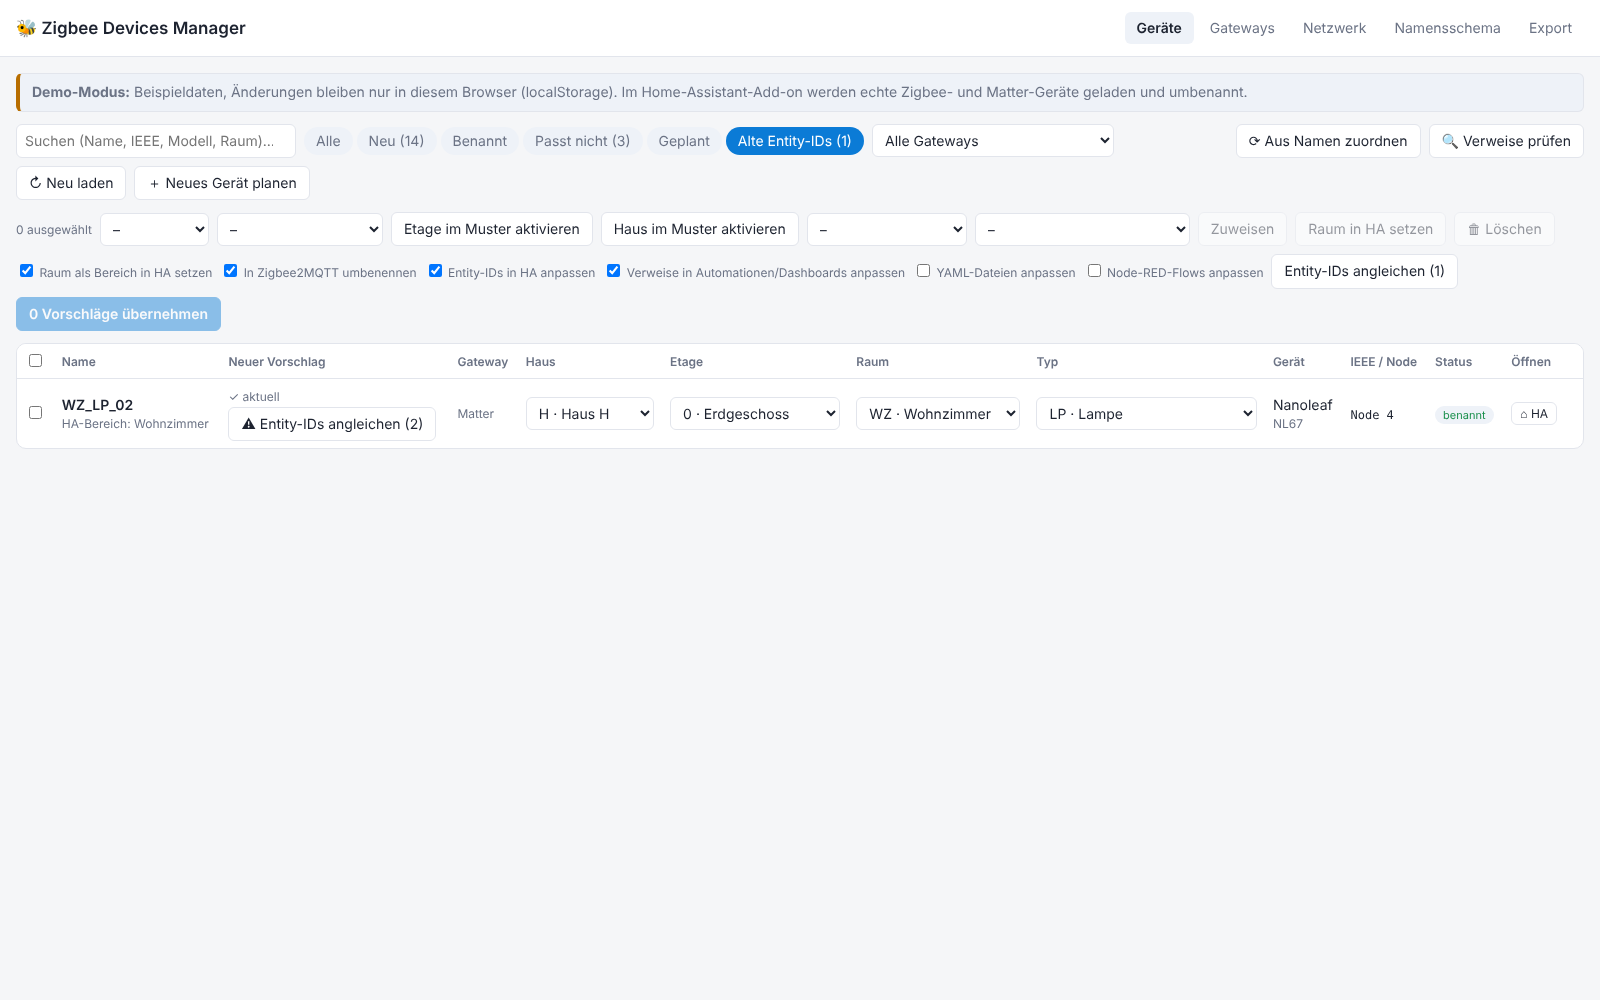
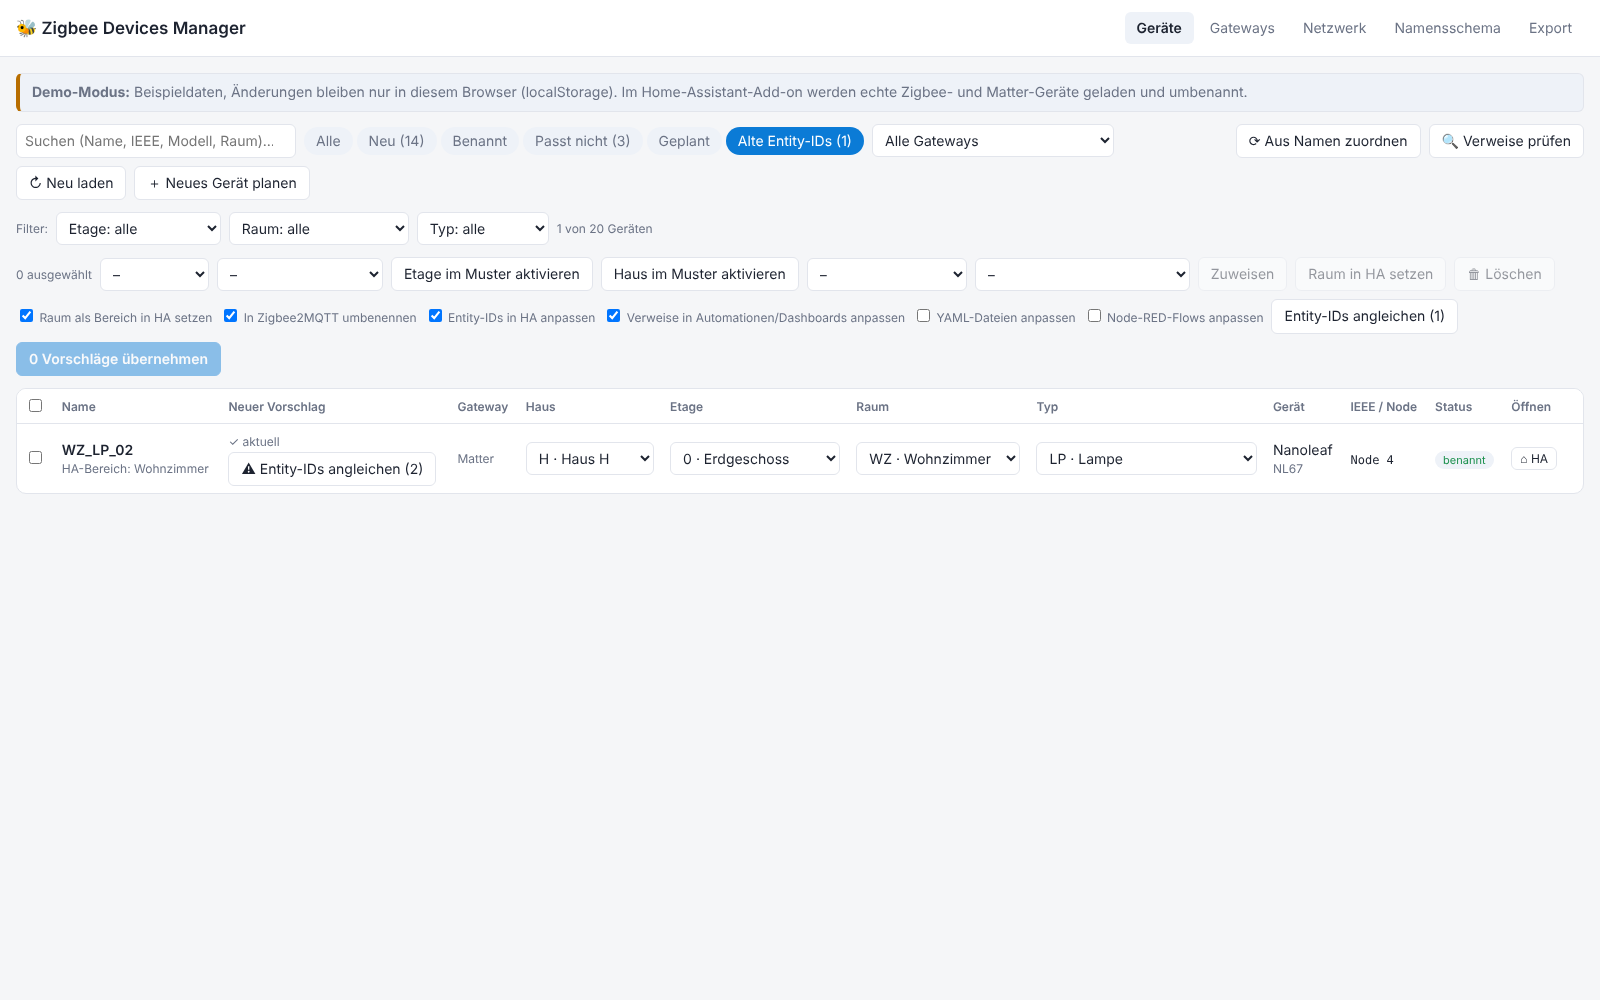
Filter nach Haus, Etage, Raum und Typ in der Geräteliste; Version 0.13.0
Neue Filterleiste über der Liste: je eine Auswahl für Haus (wenn {house} im
Muster steht und es mehrere Häuser gibt), Etage, Raum und Typ – nach dem,
was in der Zeile gewählt bzw. abgeleitet ist. Jede Auswahl zeigt nur Werte,
die bei den übrigen Filtern vorkommen, mit Anzahl, dazu „ohne …“; „✕ Filter
zurücksetzen“ und „n von m Geräten“. Wirkt zusätzlich zu Suche, Chips und
Gateway-Filter.

„Zuweisen“ gilt jetzt wie die übrigen Sammelaktionen nur für sichtbare
ausgewählte Geräte; ausgeblendete Auswahl wird angezeigt.

Claude-Session: https://claude.ai/code/session_01BRmvK2JwGzbRa7vCyPwVU7

diff --git a/zigbee_devices_manager/web/index.html b/zigbee_devices_manager/web/index.html
@@ -20,6 +20,7 @@ main{padding:16px;width:100%}
 input,select,button{font:inherit;color:var(--fg)}
 input,select{background:var(--input);border:1px solid var(--line);border-radius:6px;padding:6px 8px;min-width:0}
 input:focus,select:focus{outline:2px solid var(--accent);outline-offset:-1px}
+select.facet.on{border-color:var(--accent);background:color-mix(in srgb,var(--accent) 10%,var(--input))}
 button.btn{background:var(--card);border:1px solid var(--line);border-radius:6px;padding:6px 12px;cursor:pointer}
 button.btn:hover{border-color:var(--accent)}
 button.primary{background:var(--accent);color:var(--accent-fg);border-color:var(--accent);font-weight:600}
@@ -113,7 +114,7 @@ code{font-family:ui-monospace,Menlo,Consolas,monospace;font-size:12px}
 </main>
 <div class="toast" id="toast"></div>
 
-<script src="zigbee-tree.js?v=0.12.1"></script>
+<script src="zigbee-tree.js?v=0.13.0"></script>
 <script>
 // ---------- Konfiguration / Standarddaten ----------
 const DEMO_FORCED = window.ZDM_DEMO === true;
@@ -399,7 +400,7 @@ const api = {
 };
 
 // ---------- State ----------
-const S = {devices: [], scheme: clone(DEFAULT_SCHEME), meta: {}, planned: [], filter: "all", q: "", sel: new Set(), areas: [], haFloors: [], z2mBases: [], z2mUis: [], bridges: [], gateways: {}, gwFilter: "", permitUntil: {}, permitReal: {}, editing: null, storeLoaded: false, renameZ2m: true, renameEntities: true, setArea: true, updateRefs: true, updateYaml: false, updateNodered: false, deleteForce: true};
+const S = {devices: [], scheme: clone(DEFAULT_SCHEME), meta: {}, planned: [], filter: "all", q: "", sel: new Set(), areas: [], haFloors: [], z2mBases: [], z2mUis: [], bridges: [], gateways: {}, gwFilter: "", facets: {}, permitUntil: {}, permitReal: {}, editing: null, storeLoaded: false, renameZ2m: true, renameEntities: true, setArea: true, updateRefs: true, updateYaml: false, updateNodered: false, deleteForce: true};
 /** Haken beim Umbenennen und Löschen – werden im Store gemerkt. */
 const OPTION_KEYS = ["setArea", "renameZ2m", "renameEntities", "updateRefs", "updateYaml", "updateNodered", "deleteForce"];
 
@@ -486,6 +487,16 @@ const floorOf = d => {
   const room = roomOf(d), area = S.areas.find(a => a.id === (room?.area_id || d.area_id));
   return sc.floors.find(f => area?.floor_id && f.floor_id === area.floor_id) || sc.floors.find(f => f.id === sc.defaultFloor);
 };
+
+/** Filter der Geräteliste nach Haus, Etage, Raum und Typ – so, wie sie in der Zeile gewählt bzw. abgeleitet sind. Wert "-" = ohne. */
+const FACETS = [
+  {key: "house", label: "Haus", none: "ohne Haus", of: d => houseOf(d)?.id, list: () => S.scheme.houses, on: () => useHouse() && S.scheme.houses.length > 1},
+  {key: "floor", label: "Etage", none: "ohne Etage", of: d => floorOf(d)?.id, list: () => S.scheme.floors, on: () => true},
+  {key: "room", label: "Raum", none: "ohne Raum", of: d => roomOf(d)?.id, list: () => S.scheme.rooms, on: () => true},
+  {key: "type", label: "Typ", none: "ohne Typ", of: d => typeOf(d)?.id, list: () => S.scheme.types, on: () => true}
+];
+/** Passt das Gerät zu allen gesetzten Filtern (außer skip – für die Zahlen in dessen Auswahl)? */
+const facetOk = (d, skip) => FACETS.every(f => f.key === skip || !f.on() || !S.facets[f.key] || (f.of(d) || "-") === S.facets[f.key]);
 
 // ---------- Sprung zu Zigbee2MQTT / Home Assistant ----------
 /** Zigbee2MQTT-Instanz (aus bridge/info) eines Gateways: über die Koordinator-IEEE, sonst über den Basis-Topic. */
@@ -651,7 +662,7 @@ function suggestions() {
 // ---------- Geräte-Tab ----------
 function renderDevices() {
   const sug = suggestions(), q = S.q.toLowerCase();
-  let rows = allRows().filter(d => {
+  const baseOk = d => {
     if (S.filter === "new" && !d.is_new) return false;
     if (S.filter === "named" && (d.is_new || d.planned)) return false;
     if (S.filter === "planned" && !d.planned) return false;
@@ -659,7 +670,17 @@ function renderDevices() {
     if (S.filter === "ids" && !staleIds(d).length) return false;
     if (S.gwFilter && d.bridge !== S.gwFilter) return false;
     return !q || [d.name, d.orig_name, addrOf(d), d.model, d.manufacturer, d.area, SOURCE_NAMES[d.source]].join(" ").toLowerCase().includes(q);
-  });
+  };
+  const base = allRows().filter(baseOk), rows = base.filter(d => facetOk(d));
+  // Auswahl je Filter: nur Einträge, die bei den übrigen Filtern vorkommen, mit Anzahl
+  const facetSel = f => {
+    const n = new Map(), cur = S.facets[f.key] || "";
+    for (const d of base) if (facetOk(d, f.key)) { const v = f.of(d) || "-"; n.set(v, (n.get(v) || 0) + 1); }
+    return `<select class="facet${cur ? " on" : ""}" data-k="${f.key}" title="Nur Geräte mit diesem Wert zeigen (${f.label})"><option value="">${f.label}: alle</option>`
+      + f.list().filter(x => n.has(x.id) || cur === x.id).map(x => `<option value="${x.id}"${cur === x.id ? " selected" : ""}>${esc(x.abbr)} · ${esc(x.name)} (${n.get(x.id) || 0})</option>`).join("")
+      + (n.has("-") || cur === "-" ? `<option value="-"${cur === "-" ? " selected" : ""}>${f.none} (${n.get("-") || 0})</option>` : "") + `</select>`;
+  };
+  const facetOn = FACETS.some(f => f.on() && S.facets[f.key]), hiddenSel = [...S.sel].filter(id => !rows.some(d => d.id === id)).length;
   const roomOpts = sel => `<option value="">–</option>` + S.scheme.rooms.map(r => `<option value="${r.id}"${r.id === sel ? " selected" : ""}>${esc(r.abbr)} · ${esc(r.name)}</option>`).join("");
   const houseOpts = sel => `<option value="">–</option>` + S.scheme.houses.map(h => `<option value="${h.id}"${h.id === sel ? " selected" : ""}>${esc(h.abbr)} · ${esc(h.name)}</option>`).join("");
   const floorOpts = sel => `<option value="">–</option>` + S.scheme.floors.map(f => `<option value="${f.id}"${f.id === sel ? " selected" : ""}>${esc(f.abbr)} · ${esc(f.name)}</option>`).join("");
@@ -683,7 +704,13 @@ function renderDevices() {
       <button class="btn" id="addPlanned">＋ Neues Gerät planen</button>
     </div>
     <div class="bar">
-      <span class="sub">${S.sel.size} ausgewählt</span>
+      <span class="sub">Filter:</span>
+      ${FACETS.filter(f => f.on()).map(facetSel).join("")}
+      ${facetOn ? `<button class="btn" id="facetReset" title="Alle Filter für Haus, Etage, Raum und Typ zurücksetzen">✕ Filter zurücksetzen</button>` : ""}
+      <span class="sub">${rows.length} von ${allRows().length} Geräten</span>
+    </div>
+    <div class="bar">
+      <span class="sub">${S.sel.size} ausgewählt${hiddenSel ? ` (${hiddenSel} ausgeblendet – zählen nicht mit)` : ""}</span>
       <select id="bHouse" title="Haus">${houseOpts("")}</select>
       <select id="bFloor" title="Etage">${floorOpts("")}</select>${useFloor() ? "" : `<button class="btn" id="floorOn" title="Im Namensschema steht {floor} noch nicht. Klick fügt es vorne an das Muster an.">Etage im Muster aktivieren</button>`}${useHouse() ? "" : `<button class="btn" id="houseOn" title="Im Namensschema steht {house} noch nicht. Klick fügt es vorne an das Muster an.">Haus im Muster aktivieren</button>`}
       <select id="bRoom">${roomOpts("")}</select>
@@ -731,6 +758,8 @@ function renderDevices() {
   $("#q", root).oninput = e => { S.q = e.target.value; const p = e.target.selectionStart; renderDevices(); const i = $("#q"); i.focus(); i.setSelectionRange(p, p); };
   root.querySelectorAll("[data-f]").forEach(b => b.onclick = () => { S.filter = b.dataset.f; renderDevices(); });
   $("#gwf", root) && ($("#gwf", root).onchange = e => { S.gwFilter = e.target.value; renderDevices(); });
+  root.querySelectorAll("select.facet").forEach(x => x.onchange = () => { S.facets[x.dataset.k] = x.value; renderDevices(); });
+  $("#facetReset", root) && ($("#facetReset", root).onclick = () => { S.facets = {}; renderDevices(); });
   $("#floorOn", root) && ($("#floorOn", root).onclick = () => { S.scheme.pattern = "{floor}-" + S.scheme.pattern; S.scheme.case = "keep"; persist(); toast("Muster: " + S.scheme.pattern); renderDevices(); });
   $("#houseOn", root) && ($("#houseOn", root).onclick = () => { S.scheme.pattern = "{house}-" + S.scheme.pattern; S.scheme.case = "keep"; persist(); toast("Muster: " + S.scheme.pattern); renderDevices(); });
   $("#rArea", root).onchange = e => { S.setArea = e.target.checked; persist(); };
@@ -755,7 +784,7 @@ function renderDevices() {
   $("#bDel", root).onclick = () => deleteDevices(rows.filter(d => S.sel.has(d.id)));
   $("#bAssign", root).onclick = () => {
     const room = $("#bRoom", root).value, type = $("#bType", root).value, house = $("#bHouse", root)?.value, floor = $("#bFloor", root)?.value;
-    S.sel.forEach(id => { S.meta[id] = {...S.meta[id], ...(room && {room}), ...(type && {type}), ...(house && {house}), ...(floor && {floor})}; });
+    rows.filter(d => S.sel.has(d.id)).forEach(({id}) => { S.meta[id] = {...S.meta[id], ...(room && {room}), ...(type && {type}), ...(house && {house}), ...(floor && {floor})}; });
     persist(); renderDevices();
   };
   $("#fixAll", root) && ($("#fixAll", root).onclick = () => fixEntityIds(staleRows));

diff --git a/demo/zigbee-devices-manager-demo.html b/demo/zigbee-devices-manager-demo.html
@@ -20,6 +20,7 @@ main{padding:16px;width:100%}
 input,select,button{font:inherit;color:var(--fg)}
 input,select{background:var(--input);border:1px solid var(--line);border-radius:6px;padding:6px 8px;min-width:0}
 input:focus,select:focus{outline:2px solid var(--accent);outline-offset:-1px}
+select.facet.on{border-color:var(--accent);background:color-mix(in srgb,var(--accent) 10%,var(--input))}
 button.btn{background:var(--card);border:1px solid var(--line);border-radius:6px;padding:6px 12px;cursor:pointer}
 button.btn:hover{border-color:var(--accent)}
 button.primary{background:var(--accent);color:var(--accent-fg);border-color:var(--accent);font-weight:600}
@@ -625,7 +626,7 @@ const api = {
 };
 
 // ---------- State ----------
-const S = {devices: [], scheme: clone(DEFAULT_SCHEME), meta: {}, planned: [], filter: "all", q: "", sel: new Set(), areas: [], haFloors: [], z2mBases: [], z2mUis: [], bridges: [], gateways: {}, gwFilter: "", permitUntil: {}, permitReal: {}, editing: null, storeLoaded: false, renameZ2m: true, renameEntities: true, setArea: true, updateRefs: true, updateYaml: false, updateNodered: false, deleteForce: true};
+const S = {devices: [], scheme: clone(DEFAULT_SCHEME), meta: {}, planned: [], filter: "all", q: "", sel: new Set(), areas: [], haFloors: [], z2mBases: [], z2mUis: [], bridges: [], gateways: {}, gwFilter: "", facets: {}, permitUntil: {}, permitReal: {}, editing: null, storeLoaded: false, renameZ2m: true, renameEntities: true, setArea: true, updateRefs: true, updateYaml: false, updateNodered: false, deleteForce: true};
 /** Haken beim Umbenennen und Löschen – werden im Store gemerkt. */
 const OPTION_KEYS = ["setArea", "renameZ2m", "renameEntities", "updateRefs", "updateYaml", "updateNodered", "deleteForce"];
 
@@ -712,6 +713,16 @@ const floorOf = d => {
   const room = roomOf(d), area = S.areas.find(a => a.id === (room?.area_id || d.area_id));
   return sc.floors.find(f => area?.floor_id && f.floor_id === area.floor_id) || sc.floors.find(f => f.id === sc.defaultFloor);
 };
+
+/** Filter der Geräteliste nach Haus, Etage, Raum und Typ – so, wie sie in der Zeile gewählt bzw. abgeleitet sind. Wert "-" = ohne. */
+const FACETS = [
+  {key: "house", label: "Haus", none: "ohne Haus", of: d => houseOf(d)?.id, list: () => S.scheme.houses, on: () => useHouse() && S.scheme.houses.length > 1},
+  {key: "floor", label: "Etage", none: "ohne Etage", of: d => floorOf(d)?.id, list: () => S.scheme.floors, on: () => true},
+  {key: "room", label: "Raum", none: "ohne Raum", of: d => roomOf(d)?.id, list: () => S.scheme.rooms, on: () => true},
+  {key: "type", label: "Typ", none: "ohne Typ", of: d => typeOf(d)?.id, list: () => S.scheme.types, on: () => true}
+];
+/** Passt das Gerät zu allen gesetzten Filtern (außer skip – für die Zahlen in dessen Auswahl)? */
+const facetOk = (d, skip) => FACETS.every(f => f.key === skip || !f.on() || !S.facets[f.key] || (f.of(d) || "-") === S.facets[f.key]);
 
 // ---------- Sprung zu Zigbee2MQTT / Home Assistant ----------
 /** Zigbee2MQTT-Instanz (aus bridge/info) eines Gateways: über die Koordinator-IEEE, sonst über den Basis-Topic. */
@@ -877,7 +888,7 @@ function suggestions() {
 // ---------- Geräte-Tab ----------
 function renderDevices() {
   const sug = suggestions(), q = S.q.toLowerCase();
-  let rows = allRows().filter(d => {
+  const baseOk = d => {
     if (S.filter === "new" && !d.is_new) return false;
     if (S.filter === "named" && (d.is_new || d.planned)) return false;
     if (S.filter === "planned" && !d.planned) return false;
@@ -885,7 +896,17 @@ function renderDevices() {
     if (S.filter === "ids" && !staleIds(d).length) return false;
     if (S.gwFilter && d.bridge !== S.gwFilter) return false;
     return !q || [d.name, d.orig_name, addrOf(d), d.model, d.manufacturer, d.area, SOURCE_NAMES[d.source]].join(" ").toLowerCase().includes(q);
-  });
+  };
+  const base = allRows().filter(baseOk), rows = base.filter(d => facetOk(d));
+  // Auswahl je Filter: nur Einträge, die bei den übrigen Filtern vorkommen, mit Anzahl
+  const facetSel = f => {
+    const n = new Map(), cur = S.facets[f.key] || "";
+    for (const d of base) if (facetOk(d, f.key)) { const v = f.of(d) || "-"; n.set(v, (n.get(v) || 0) + 1); }
+    return `<select class="facet${cur ? " on" : ""}" data-k="${f.key}" title="Nur Geräte mit diesem Wert zeigen (${f.label})"><option value="">${f.label}: alle</option>`
+      + f.list().filter(x => n.has(x.id) || cur === x.id).map(x => `<option value="${x.id}"${cur === x.id ? " selected" : ""}>${esc(x.abbr)} · ${esc(x.name)} (${n.get(x.id) || 0})</option>`).join("")
+      + (n.has("-") || cur === "-" ? `<option value="-"${cur === "-" ? " selected" : ""}>${f.none} (${n.get("-") || 0})</option>` : "") + `</select>`;
+  };
+  const facetOn = FACETS.some(f => f.on() && S.facets[f.key]), hiddenSel = [...S.sel].filter(id => !rows.some(d => d.id === id)).length;
   const roomOpts = sel => `<option value="">–</option>` + S.scheme.rooms.map(r => `<option value="${r.id}"${r.id === sel ? " selected" : ""}>${esc(r.abbr)} · ${esc(r.name)}</option>`).join("");
   const houseOpts = sel => `<option value="">–</option>` + S.scheme.houses.map(h => `<option value="${h.id}"${h.id === sel ? " selected" : ""}>${esc(h.abbr)} · ${esc(h.name)}</option>`).join("");
   const floorOpts = sel => `<option value="">–</option>` + S.scheme.floors.map(f => `<option value="${f.id}"${f.id === sel ? " selected" : ""}>${esc(f.abbr)} · ${esc(f.name)}</option>`).join("");
@@ -909,7 +930,13 @@ function renderDevices() {
       <button class="btn" id="addPlanned">＋ Neues Gerät planen</button>
     </div>
     <div class="bar">
-      <span class="sub">${S.sel.size} ausgewählt</span>
+      <span class="sub">Filter:</span>
+      ${FACETS.filter(f => f.on()).map(facetSel).join("")}
+      ${facetOn ? `<button class="btn" id="facetReset" title="Alle Filter für Haus, Etage, Raum und Typ zurücksetzen">✕ Filter zurücksetzen</button>` : ""}
+      <span class="sub">${rows.length} von ${allRows().length} Geräten</span>
+    </div>
+    <div class="bar">
+      <span class="sub">${S.sel.size} ausgewählt${hiddenSel ? ` (${hiddenSel} ausgeblendet – zählen nicht mit)` : ""}</span>
       <select id="bHouse" title="Haus">${houseOpts("")}</select>
       <select id="bFloor" title="Etage">${floorOpts("")}</select>${useFloor() ? "" : `<button class="btn" id="floorOn" title="Im Namensschema steht {floor} noch nicht. Klick fügt es vorne an das Muster an.">Etage im Muster aktivieren</button>`}${useHouse() ? "" : `<button class="btn" id="houseOn" title="Im Namensschema steht {house} noch nicht. Klick fügt es vorne an das Muster an.">Haus im Muster aktivieren</button>`}
       <select id="bRoom">${roomOpts("")}</select>
@@ -957,6 +984,8 @@ function renderDevices() {
   $("#q", root).oninput = e => { S.q = e.target.value; const p = e.target.selectionStart; renderDevices(); const i = $("#q"); i.focus(); i.setSelectionRange(p, p); };
   root.querySelectorAll("[data-f]").forEach(b => b.onclick = () => { S.filter = b.dataset.f; renderDevices(); });
   $("#gwf", root) && ($("#gwf", root).onchange = e => { S.gwFilter = e.target.value; renderDevices(); });
+  root.querySelectorAll("select.facet").forEach(x => x.onchange = () => { S.facets[x.dataset.k] = x.value; renderDevices(); });
+  $("#facetReset", root) && ($("#facetReset", root).onclick = () => { S.facets = {}; renderDevices(); });
   $("#floorOn", root) && ($("#floorOn", root).onclick = () => { S.scheme.pattern = "{floor}-" + S.scheme.pattern; S.scheme.case = "keep"; persist(); toast("Muster: " + S.scheme.pattern); renderDevices(); });
   $("#houseOn", root) && ($("#houseOn", root).onclick = () => { S.scheme.pattern = "{house}-" + S.scheme.pattern; S.scheme.case = "keep"; persist(); toast("Muster: " + S.scheme.pattern); renderDevices(); });
   $("#rArea", root).onchange = e => { S.setArea = e.target.checked; persist(); };
@@ -981,7 +1010,7 @@ function renderDevices() {
   $("#bDel", root).onclick = () => deleteDevices(rows.filter(d => S.sel.has(d.id)));
   $("#bAssign", root).onclick = () => {
     const room = $("#bRoom", root).value, type = $("#bType", root).value, house = $("#bHouse", root)?.value, floor = $("#bFloor", root)?.value;
-    S.sel.forEach(id => { S.meta[id] = {...S.meta[id], ...(room && {room}), ...(type && {type}), ...(house && {house}), ...(floor && {floor})}; });
+    rows.filter(d => S.sel.has(d.id)).forEach(({id}) => { S.meta[id] = {...S.meta[id], ...(room && {room}), ...(type && {type}), ...(house && {house}), ...(floor && {floor})}; });
     persist(); renderDevices();
   };
   $("#fixAll", root) && ($("#fixAll", root).onclick = () => fixEntityIds(staleRows));

diff --git a/zigbee_devices_manager/CHANGELOG.md b/zigbee_devices_manager/CHANGELOG.md
@@ -1,9 +1,11 @@
 # Änderungen
 
-## 0.12.1
+## 0.13.0
 
 *25.10.2026*
 
+- **Filter nach Haus, Etage, Raum und Typ:** Über der Geräteliste stehen jetzt Auswahlfelder, mit denen sich die Liste zusätzlich zu Suche, „Neu/Benannt/…“ und Gateway eingrenzen lässt – z. B. nur Spots (Typ LSP) im Wohnzimmer der 2. Etage. Jede Auswahl zeigt nur, was bei den übrigen Filtern vorkommt, mit Anzahl; „ohne Raum“/„ohne Typ“ findet Geräte, denen noch etwas fehlt. „✕ Filter zurücksetzen“ hebt alles auf, daneben steht „n von m Geräten“.
+- „Zuweisen“, „Vorschläge übernehmen“, „Entity-IDs angleichen“, „Raum in HA setzen“ und „Löschen“ wirken nur auf sichtbare Geräte. Ausgewählte, die ein Filter gerade ausblendet, werden angezeigt („… ausgeblendet – zählen nicht mit“).
 - **Korrektur „Entity-IDs angleichen“:** Hatte Zigbee2MQTT beim Umbenennen nur einen Teil der Entity-IDs mitgenommen (meist die abgeschalteten wie `linkquality`, `update_state`, `update_available`), schlug die Vorschau doppelte oder abgeschnittene IDs vor – z. B. `sensor.h1_wzfl_tas02_wz_tas02_linkquality` statt `sensor.h1_wzfl_tas02_linkquality` und `binary_sensor.h1_wzfl_tas02` statt `…_update_available`. Jetzt liest das Add-on die Endung einer Zigbee2MQTT-Entität aus deren eindeutiger Kennung ab, nimmt als alten Namen nur den gemeinsamen Anfang der *noch alten* IDs und verwirft Vermutungen, die bloß der Anfang des neuen Namens sind (wie `h1`).
 
 ## 0.12.0

diff --git a/README.md b/README.md
@@ -10,7 +10,7 @@ und nach einem festen Namensschema vergibst.
 
 ## Funktionen
 
-- Liste aller neuen und bestehenden Zigbee-Geräte, Inline-Umbenennen, Suche, Filter „Neu“
+- Liste aller neuen und bestehenden Zigbee-Geräte, Inline-Umbenennen, Suche, Filter „Neu“; zusätzlich Filter nach Haus, Etage, Raum und Typ (mit Anzahl, „ohne Raum/Typ“ findet Lücken) – Sammelaktionen wirken nur auf die sichtbaren Geräte
 - **Matter-Geräte (Thread/WLAN):** Alle Geräte der Matter-Integration stehen mit in der Liste – unter dem Gateway „Matter“, mit Node-ID statt IEEE (hinter einer Matter-Bridge zusätzlich der Endpunkt). Sie bekommen dasselbe Namensschema, Haus/Etage/Raum/Typ und laufende Nummern wie die Zigbee-Geräte; umbenannt wird in Home Assistant (`name_by_user`), samt Entity-IDs, Verweisen und Bereich. Neu ist ein Matter-Gerät, solange es in HA keinen eigenen Namen hat. Gekoppelt werden Matter-Geräte weiterhin in der Home-Assistant-App.
 - **Namensschema** frei konfigurierbar, z. B. `{room}_{type}_{nr}` → `WZ_LP_01`
   - Kürzel für Räume und Gerätetypen zum Auswählen

diff --git a/README.en.md b/README.en.md
@@ -8,7 +8,7 @@ German version: [README.md](README.md)
 
 ## Features
 
-- List of all new and existing Zigbee devices, inline rename, search, "new" filter
+- List of all new and existing Zigbee devices, inline rename, search, "new" filter; plus filters by house, floor, room and type (with counts, "ohne Raum/Typ" finds gaps) – bulk actions only affect the visible devices
 - **Matter devices (Thread/Wi-Fi):** all devices of the Matter integration appear in the list as well – under the gateway "Matter", with their node ID instead of an IEEE (plus the endpoint for devices behind a Matter bridge). They use the same naming scheme, house/floor/room/type and running numbers as the Zigbee devices; renaming happens in Home Assistant (`name_by_user`), including entity IDs, references and area. A Matter device counts as new as long as it has no custom name in HA. Matter devices are still paired in the Home Assistant app.
 - **Configurable naming scheme**, e.g. `{room}_{type}_{nr}` → `WZ_LP_01`
   - Abbreviations for rooms and device types, selectable per device
